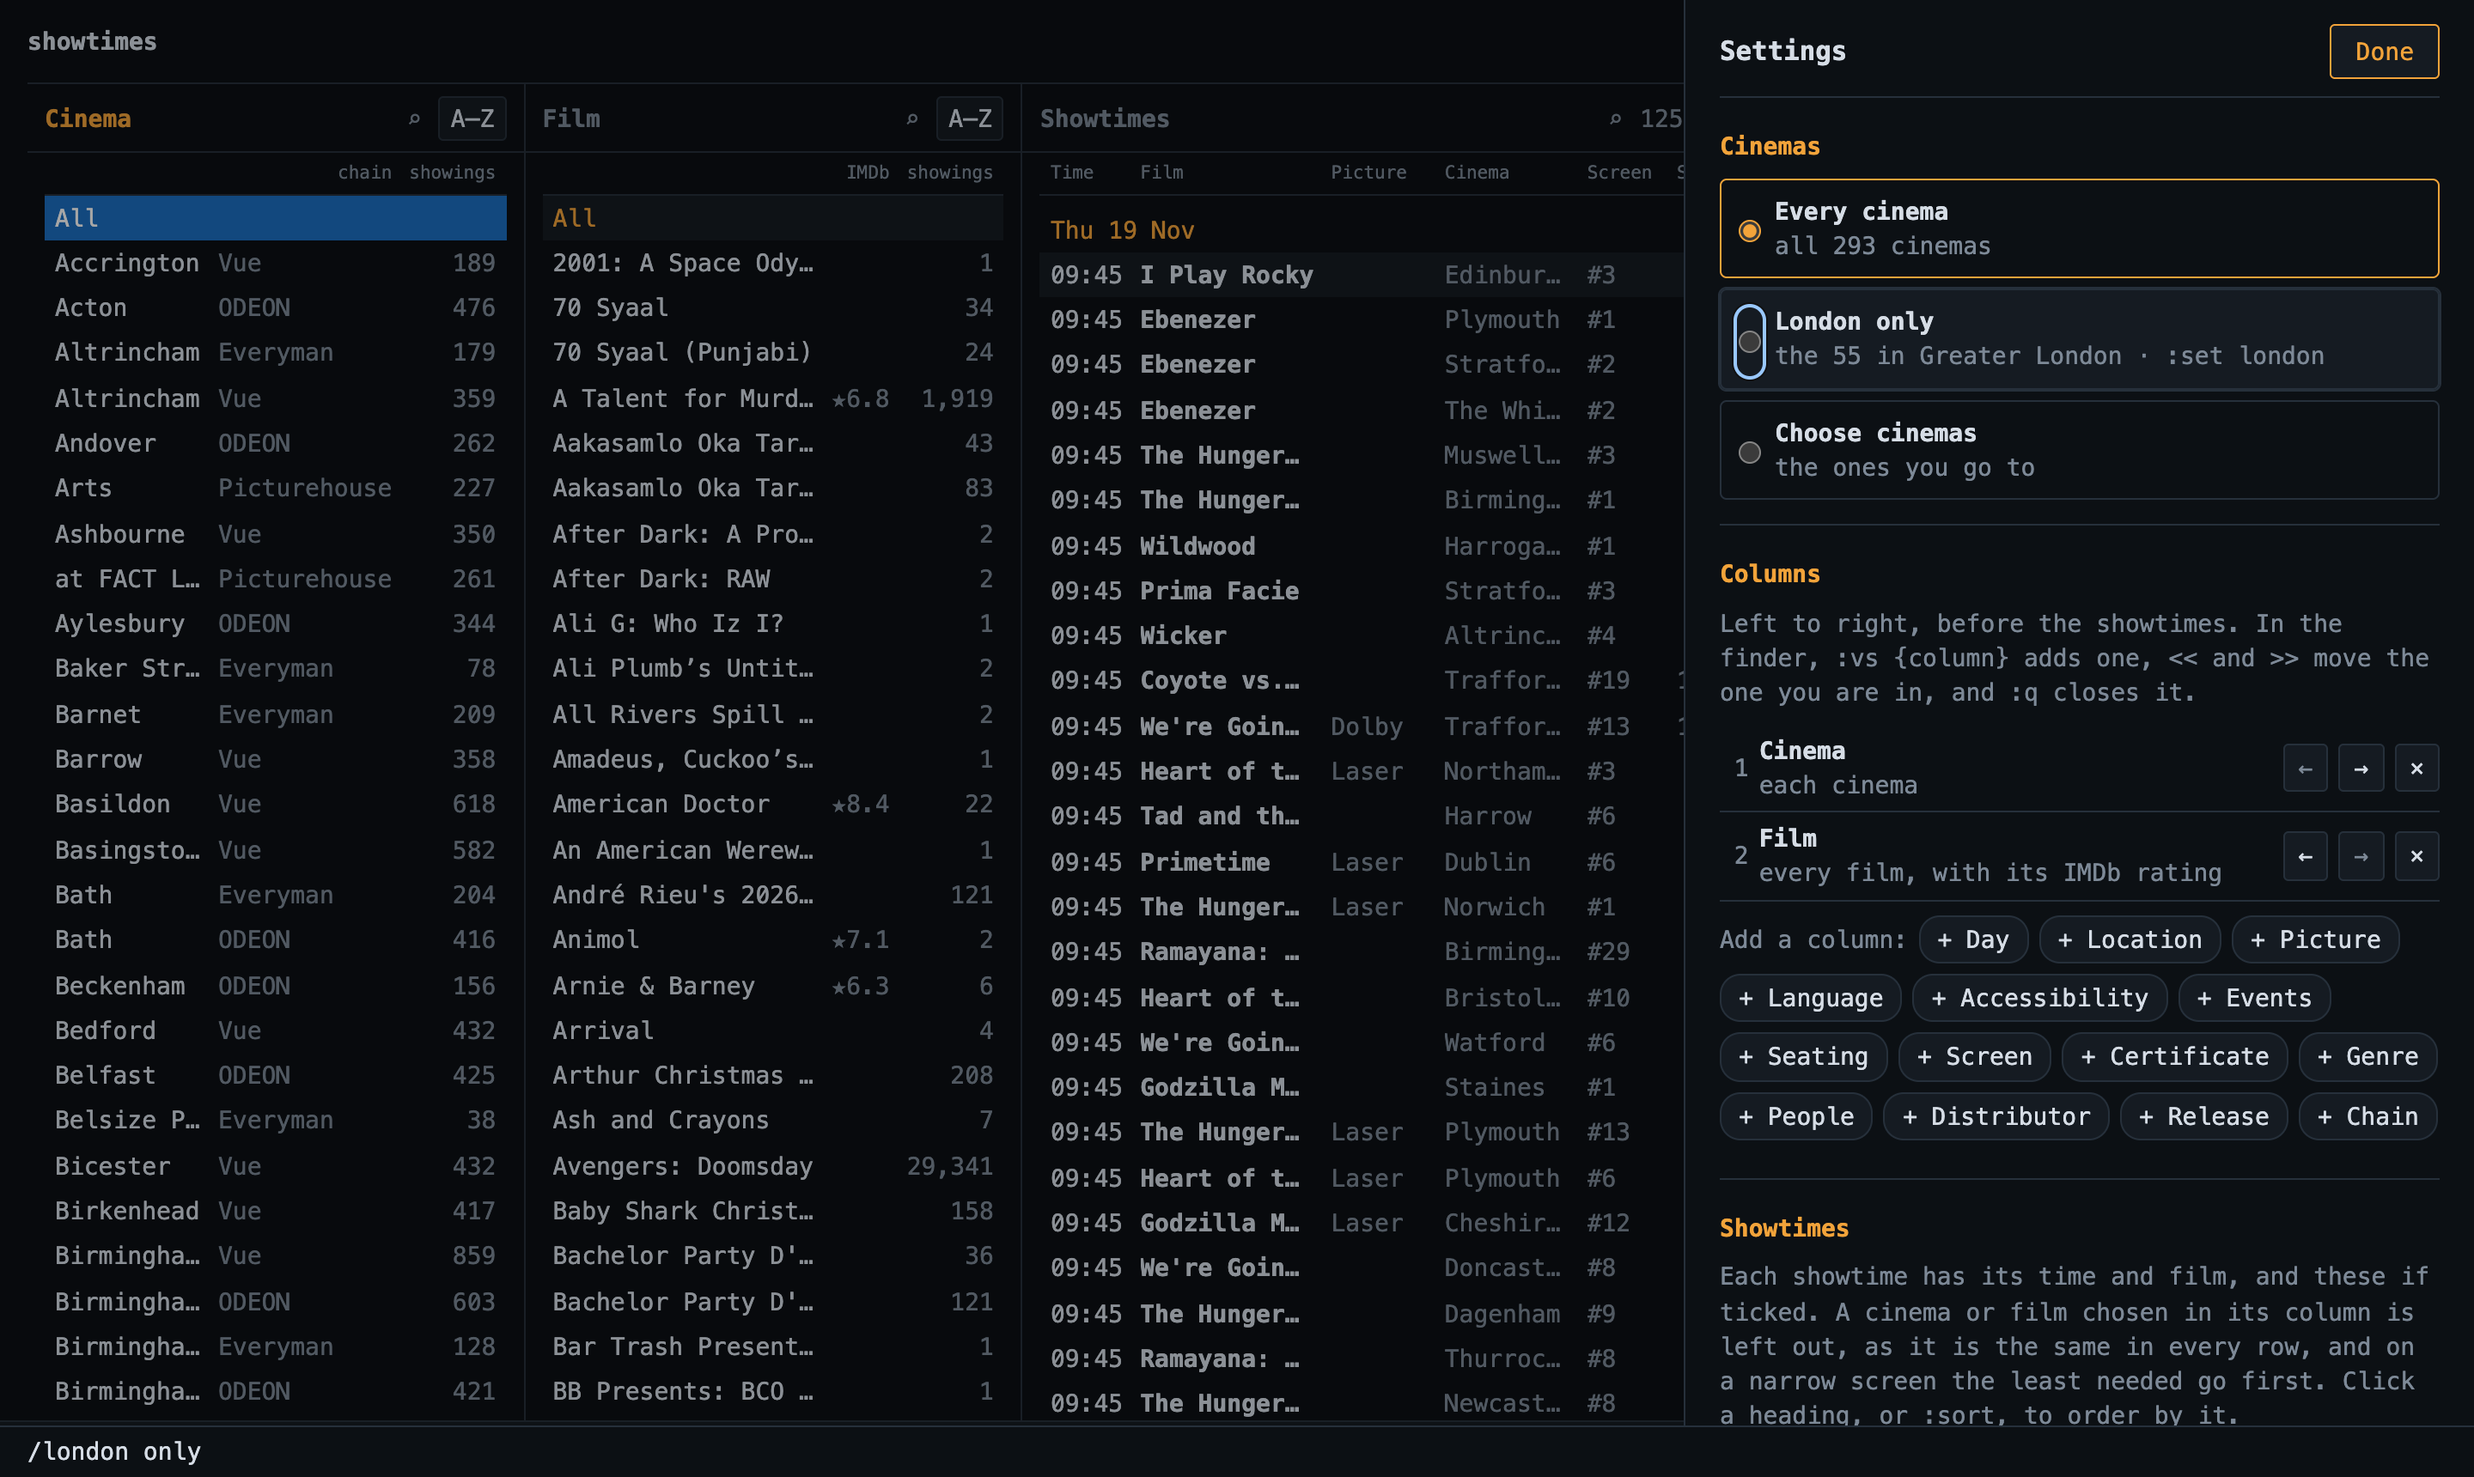
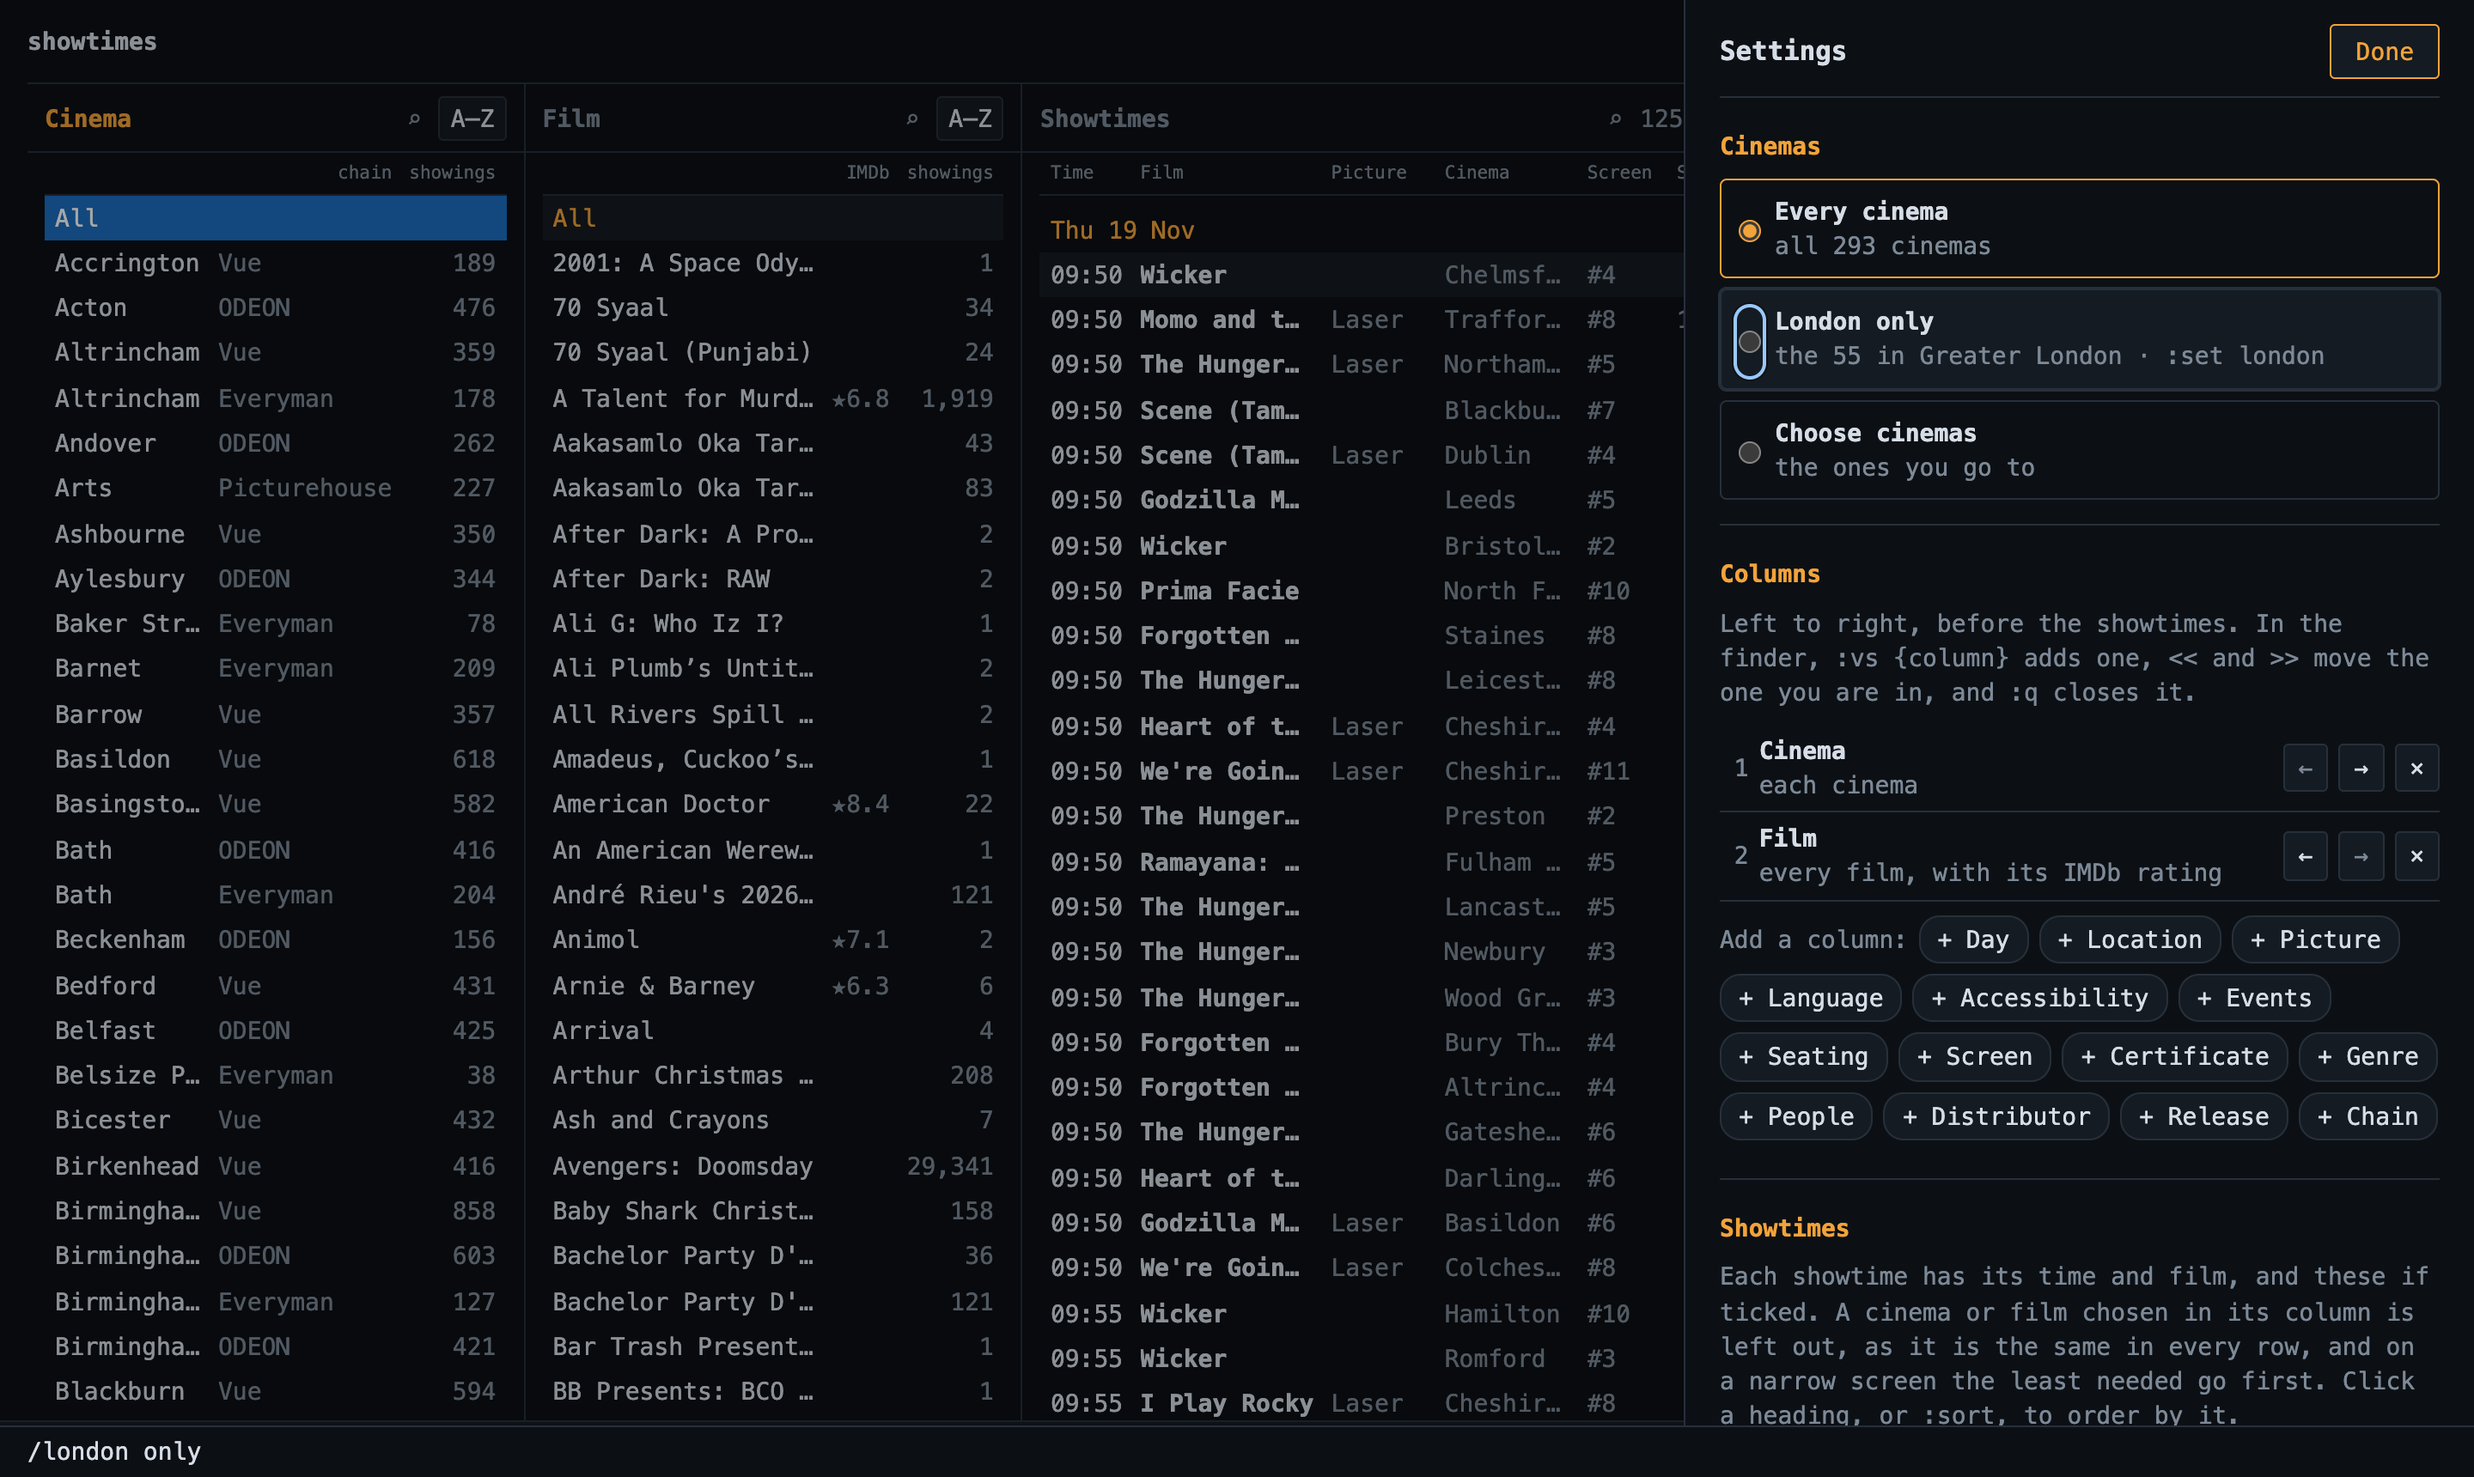
wip: Picturehouse names; faster counting with five chains

diff --git a/site/src/queries.ts b/site/src/queries.ts
@@ -94,7 +94,10 @@ export interface Listings {
   /** Showings by cinema ID and ID; made the first time one is asked for. */
   byId?: Map<string, Show>;
   /** What each showing offers each column, by its index; made the first time a column is shown. */
-  keys?: Map<string, string[][]>;
+  keys?: Map<string, Keys>;
+  /** The showings still to come, for each scope asked about (the finder's, a cinema's for
+   *  double bills), kept until the next showing starts. */
+  upcoming?: { low: number; scopes: Map<string, Show[]> };
 }
 
 export function open(data: Data): Listings {
@@ -187,12 +190,19 @@ function upcoming(l: Listings, scope: Scope, scoped = true): Show[] {
     if (l.shows[middle].startsAt > scope.now) high = middle;
     else low = middle + 1;
   }
+  if (l.upcoming?.low !== low) l.upcoming = { low, scopes: new Map() };
+  const key = [scoped, scope.noEvents, scope.cinemas.join(), scope.hidden.join()].join('|');
+  const kept = l.upcoming.scopes.get(key);
+  if (kept) return kept;
   // A film that is an event anywhere is one everywhere, whatever its other showings say.
-  const rest = scope.noEvents ? l.shows.slice(low).filter((show) => !l.events.has(show.filmId)) : l.shows.slice(low);
-  if (!scoped || (!scope.cinemas.length && !scope.hidden.length)) return rest;
-  const ticked = new Set(scope.cinemas);
-  const hidden = new Set(scope.hidden);
-  return rest.filter((show) => (!ticked.size || ticked.has(show.cinemaId)) && !hidden.has(show.filmId));
+  let rest = scope.noEvents ? l.shows.slice(low).filter((show) => !l.events.has(show.filmId)) : l.shows.slice(low);
+  if (scoped && (scope.cinemas.length || scope.hidden.length)) {
+    const ticked = new Set(scope.cinemas);
+    const hidden = new Set(scope.hidden);
+    rest = rest.filter((show) => (!ticked.size || ticked.has(show.cinemaId)) && !hidden.has(show.filmId));
+  }
+  l.upcoming.scopes.set(key, rest);
+  return rest;
 }
 
 
@@ -364,10 +374,23 @@ function keyer(facet: Facet, today: string): (show: Show) => string[] {
     case 'chain': return (show) => (show.cinema ? [show.cinema.chain] : []);
   }
 }
-function keysOf(l: Listings, facet: Facet, today: string): string[][] {
+/** What each showing offers a column, as numbers: `ids[show.index]` are positions in `names`.
+ *  Counting numbers into an array is much quicker than counting strings into a map,
+ *  which matters in a browser without its JIT (Safari's Lockdown Mode). */
+interface Keys { names: string[]; ids: number[][] }
+function keysOf(l: Listings, facet: Facet, today: string): Keys {
   l.keys ??= new Map();
   const name = `${facet}/${today}`;
-  if (!l.keys.has(name)) l.keys.set(name, l.shows.map(keyer(facet, today)));
+  if (!l.keys.has(name)) {
+    const names: string[] = [];
+    const numbers = new Map<string, number>();
+    const ids = l.shows.map(keyer(facet, today)).map((keys) => keys.map((key) => {
+      let id = numbers.get(key);
+      if (id === undefined) numbers.set(key, (id = names.push(key) - 1));
+      return id;
+    }));
+    l.keys.set(name, { names, ids });
+  }
   return l.keys.get(name)!;
 }
 
@@ -376,8 +399,9 @@ function keysOf(l: Listings, facet: Facet, today: string): string[][] {
  *  in start order. A search narrows the showings, not the counts. */
 export function find(l: Listings, scope: Scope, facets: Facet[], picks: Picks, text = ''): { counts: Map<string, number>[]; shows: Show[] } {
   const keys = facets.map((facet) => keysOf(l, facet, scope.today));
-  const wanted = facets.map((facet) => picks[facet]);
-  const counts = facets.map(() => new Map<string, number>());
+  // A choice the column has never seen matches nothing: -2, which no showing offers.
+  const wanted = facets.map((facet, column) => (picks[facet] === undefined ? -1 : (keys[column].names.indexOf(picks[facet]!) + 1 || -1) - 1));
+  const tallies = keys.map((column) => new Float64Array(column.names.length));
   // A column about the film (its people, say) is counted per film and spread after:
   // one tally a showing instead of one for each of its film's many people.
   const perFilm = facets.map((facet) => (FILM_FACETS.has(facet) ? new Map<string, { n: number; index: number }>() : null));
@@ -389,7 +413,7 @@ export function find(l: Listings, scope: Scope, facets: Facet[], picks: Picks, t
       else films.set(show.filmId, { n: 1, index: show.index });
       return;
     }
-    for (const key of keys[column][show.index]) counts[column].set(key, (counts[column].get(key) ?? 0) + 1);
+    for (const id of keys[column].ids[show.index]) tallies[column][id] += 1;
   };
   const needle = text.toLowerCase();
   const shows: Show[] = [];
@@ -399,7 +423,7 @@ export function find(l: Listings, scope: Scope, facets: Facet[], picks: Picks, t
     let failed = -1;
     let failures = 0;
     for (let column = 0; column < facets.length && failures < 2; column += 1) {
-      if (wanted[column] !== undefined && !keys[column][show.index].includes(wanted[column]!)) {
+      if (wanted[column] !== -1 && !keys[column].ids[show.index].includes(wanted[column])) {
         failures += 1;
         failed = column;
       }
@@ -415,8 +439,14 @@ export function find(l: Listings, scope: Scope, facets: Facet[], picks: Picks, t
   }
   perFilm.forEach((films, column) => {
     for (const { n, index } of films?.values() ?? []) {
-      for (const key of keys[column][index]) counts[column].set(key, (counts[column].get(key) ?? 0) + n);
+      for (const id of keys[column].ids[index]) tallies[column][id] += n;
     }
+  });
+  // In the order the values were first seen, as the maps were filled before.
+  const counts = tallies.map((tally, column) => {
+    const found = new Map<string, number>();
+    tally.forEach((n, id) => { if (n) found.set(keys[column].names[id], n); });
+    return found;
   });
   return { counts, shows };
 }

diff --git a/site/src/chains/picturehouse.ts b/site/src/chains/picturehouse.ts
@@ -33,9 +33,11 @@ export const picturehouse: Chain = {
   id: 'picturehouse',
   name: 'Picturehouse',
   booking: 'https://web.picturehouses.com/order/showtimes/{cinema}-{id}/seats',
-  // Its cinemas carry their own names ("Duke of York's", "Little Theatre Cinema"), not the chain's.
-  cinemaName: (name) => name,
-  short: (name) => name.replace(/ Picturehouse$/, '').replace(/^Picturehouse /, ''),
+  // Its cinemas are called "Arts Picturehouse", "Ritzy Picturehouse"; a few have names of
+  // their own ("Cinema City", "Little Theatre Cinema", "City Screen York").
+  cinemaName: (name) => (/Picturehouse|Cinema|Screen|Theatre/.test(name) ? name : `${name} Picturehouse`),
+  // "Picturehouse at FACT Liverpool" → "FACT Liverpool"; "Arts Picturehouse" keeps its name.
+  short: (name) => name.replace(/^Picturehouse (at )?/, ''),
   town: (cinema) => (inGreaterLondon(cinema.postcode ?? '') ? 'Greater London' : cinema.city.trim() || cinema.name),
   tag: (raw) => (raw in NAMED ? NAMED[raw] && { label: NAMED[raw]![0], kind: NAMED[raw]![1] } : { label: raw, kind: 'Events' }),
   seat: (raw) => raw,

diff --git a/site/src/main.ts b/site/src/main.ts
@@ -135,9 +135,10 @@ const cinemaNames = () => new Map(db.cinemas.map((cinema) => [cinema.id, cinema.
 /** With more than one chain, a cinema's chain, for a note beside its name: two chains may each have a West End. */
 const chainOf = (cinemaId: string) => {
   if (db.chains.size < 2) return '';
-  const chain = db.cinemas.find((cinema) => cinema.id === cinemaId)?.chain;
+  const chain = cinemaChains.get(cinemaId);
   return chain ? db.chains.get(chain)?.name ?? chain : '';
 };
+let cinemaChains = new Map<string, string>();
 let names = new Map<string, string>();
 
 const KINDS: Record<q.Facet, Kind> = {
@@ -285,6 +286,7 @@ function render() {
   }
   if (!db) return; // still downloading; load() draws the page when it arrives
   names = cinemaNames();
+  cinemaChains = new Map(db.cinemas.map((cinema) => [cinema.id, cinema.chain]));
   view = readView(location.hash);
   view.focus = Math.min(view.focus, lastColumn());
   recorded ??= { key: location.search + writeView({ ...view, focus: 0, row: 0 }), href: location.search + location.hash }; // where undo stops

diff --git a/site/src/chains/browser-chains.test.ts b/site/src/chains/browser-chains.test.ts
@@ -27,7 +27,9 @@ test("Picturehouse's cut-short codes are named in full", () => {
   expect(read(picturehouse, '35mm')).toEqual(['35mm', 'Picture']);
   expect(['2D', 'ad-trailer', 'Upstairs'].map((raw) => picturehouse.tag(raw))).toEqual([null, null, null]);
   expect(picturehouse.isEvent({ title: 'NT Live', tags: ['LiveSat'] })).toBe(true);
-  expect([picturehouse.cinemaName("Duke of York's"), picturehouse.short('Picturehouse Central')]).toEqual(["Duke of York's", 'Central']);
+  expect(['Arts', 'Cinema City', 'Picturehouse Central'].map(picturehouse.cinemaName)).toEqual(['Arts Picturehouse', 'Cinema City', 'Picturehouse Central']);
+  expect(picturehouse.short('Picturehouse Central')).toBe('Central');
+  expect(['Picturehouse at FACT Liverpool', 'Arts Picturehouse'].map(picturehouse.short)).toEqual(['FACT Liverpool', 'Arts Picturehouse']);
 });
 
 test("a showing is booked on its chain's page, with the chain's own cinema and showing IDs", () => {
